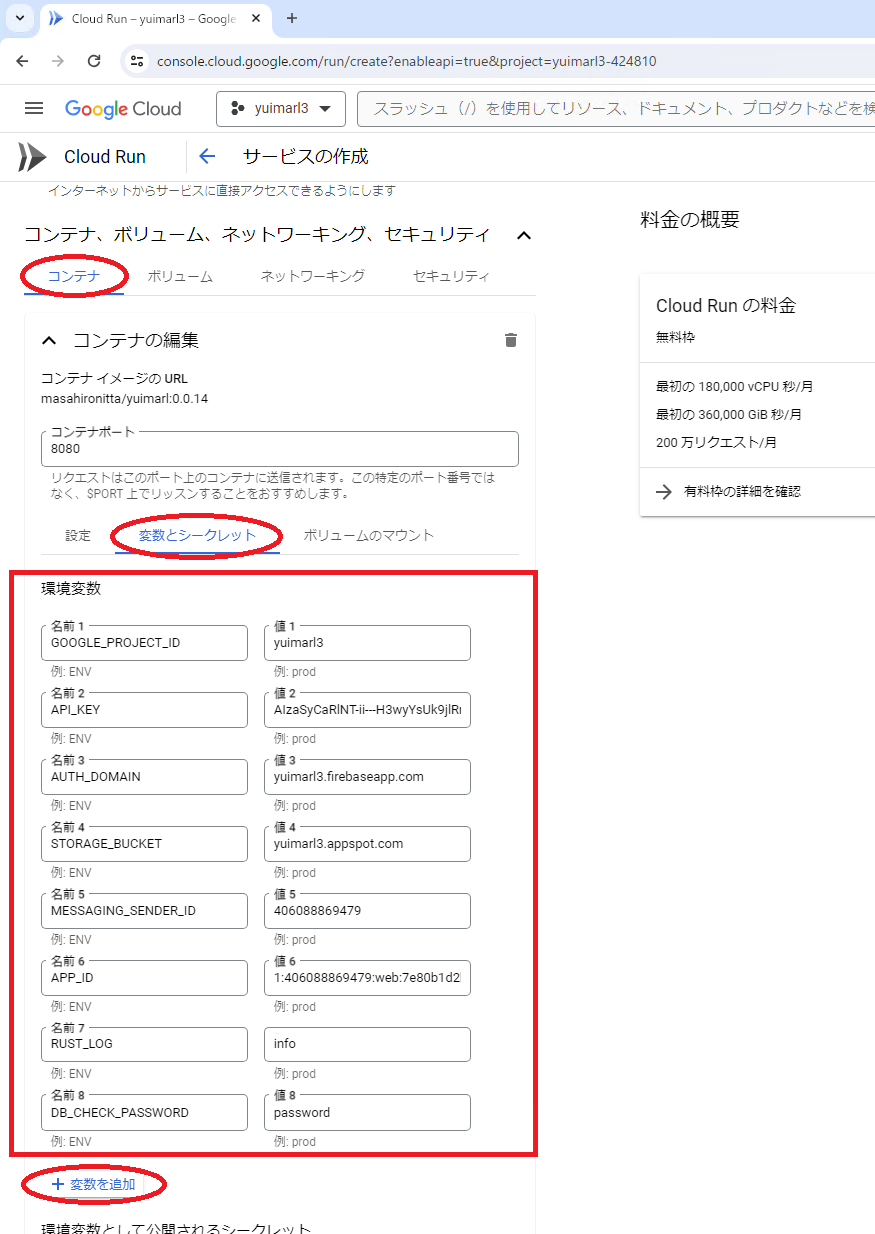
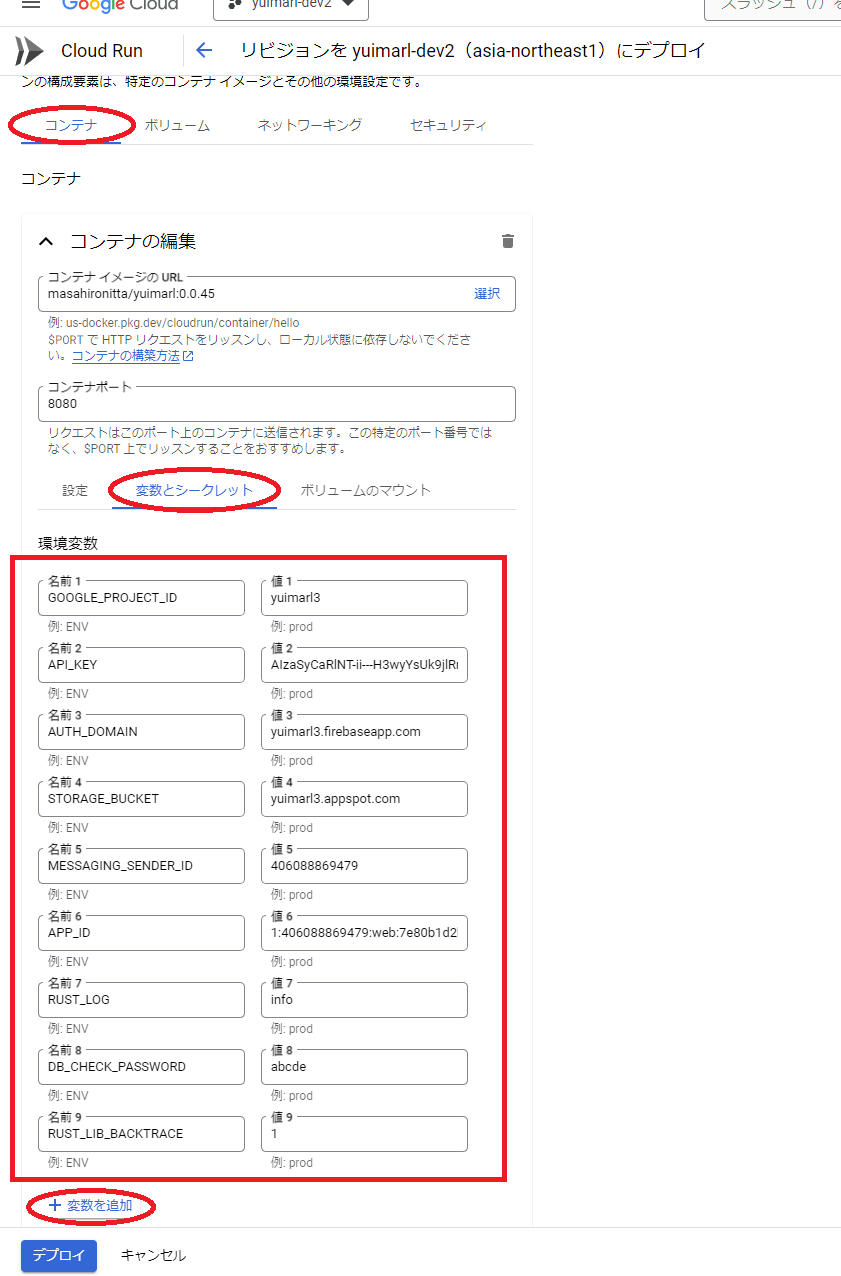
update

diff --git a/deploy.html b/deploy.html
@@ -141,6 +141,10 @@
                             <td>DB_CHECK_PASSWORD</td>
                             <td>データベースチェック(後述)を行う際に使用するパスワードを設定する。</td>
                           </tr>
+                          <tr>
+                            <td>RUST_LIB_BACKTRACE</td>
+                            <td>1</td>
+                          </tr>
                         </table>
                       </p>
                       <p>「作成」をクリックします。<a href="images/screen46.png"><img class="border border-info border-1 img-fluid" src="images/screen46.png"></a></p>
@@ -154,7 +158,7 @@
                       <p>次の画像のような画面が表示されます。これは、データベースのインデックスが作成されていない場合のエラーです。<br>表示されている URL にアクセスすると、インデックスの作成画面になるので、そこでインデックスを作成することができます。<a href="images/screen54.png"><img class="border border-info border-1 img-fluid" src="images/screen54.png"></a></p>
                       <p>次のような「インデックスの作成または更新」画面で「保存」をクリックするとインデックスが作成されます。<a href="images/screen36.png"><img class="border border-info border-1 img-fluid" src="images/screen36.png"></a></p>
                       <p>ステータスが「ビルド中...」から「有効」に変わったらインデックスが作成されました。<a href="images/screen37.png"><img class="border border-info border-1 img-fluid" src="images/screen37.png"></a></p>
-                      <p>再度、データベースチェック画面にアクセスすると、またインデックスが作成されていないメッセージが表示されますので、インデックスを作成してください。<br>これを、「チェックが正常に完了しました。」というメッセージが表示されるまで繰り返してください（現在、7個のインデックスが必要です）。このメッセージが表示されたら、ホーム画面に遷移して、Yuimarl を使用することができます。<a href="images/screen55.png"><img class="border border-info border-1 img-fluid" src="images/screen55.png"></a></p>
+                      <p>再度、データベースチェック画面にアクセスすると、またインデックスが作成されていないメッセージが表示されますので、インデックスを作成してください。<br>これを、「チェックが正常に完了しました。」というメッセージが表示されるまで繰り返してください（現在、9個のインデックスが必要です）。このメッセージが表示されたら、ホーム画面に遷移して、Yuimarl を使用することができます。<a href="images/screen55.png"><img class="border border-info border-1 img-fluid" src="images/screen55.png"></a></p>
                     </section>
                     <hr>
                     <section class="pb-2">
